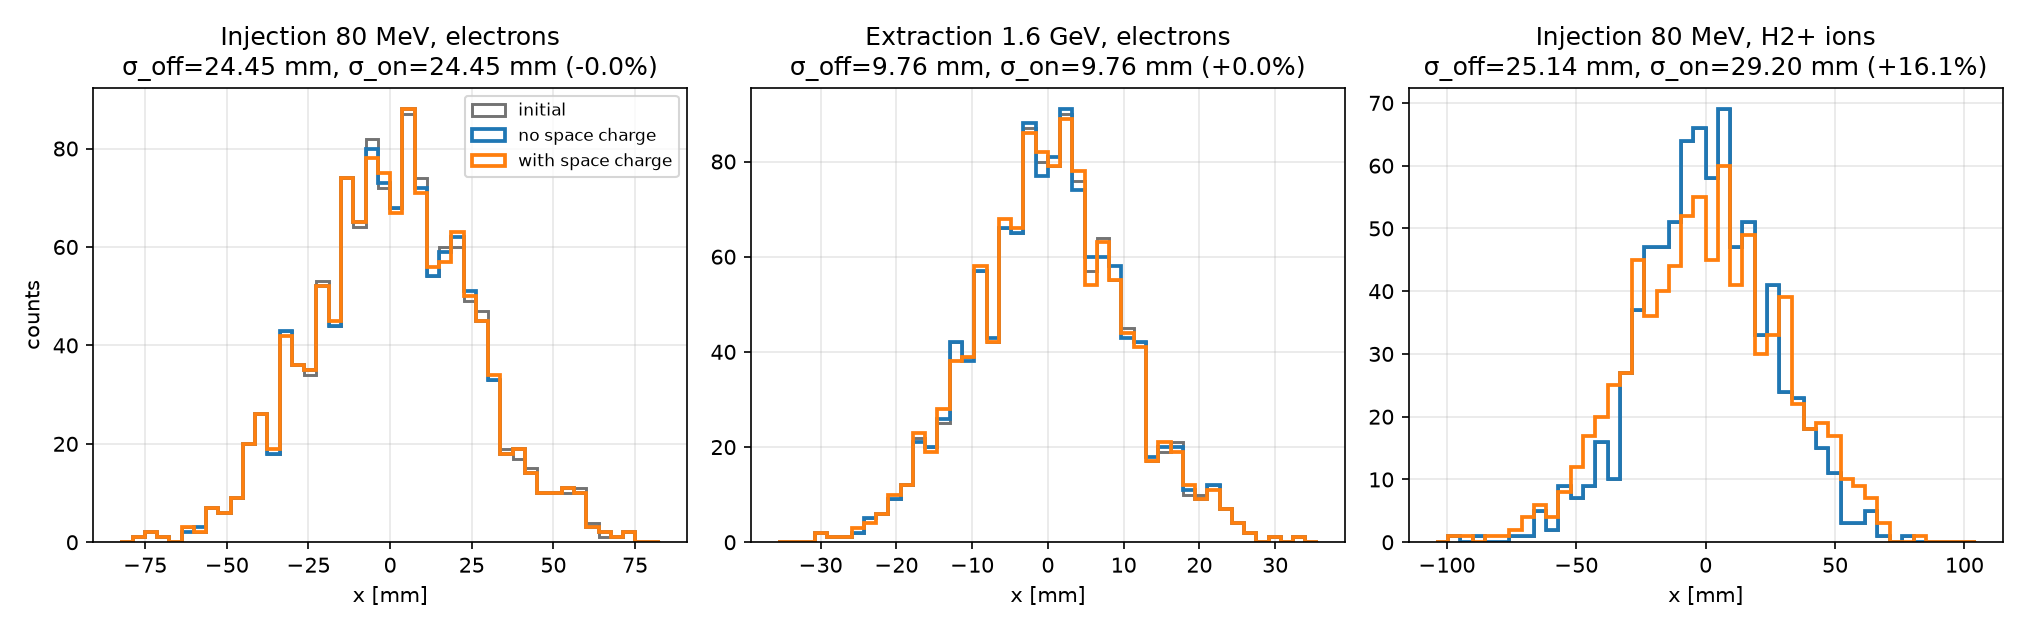
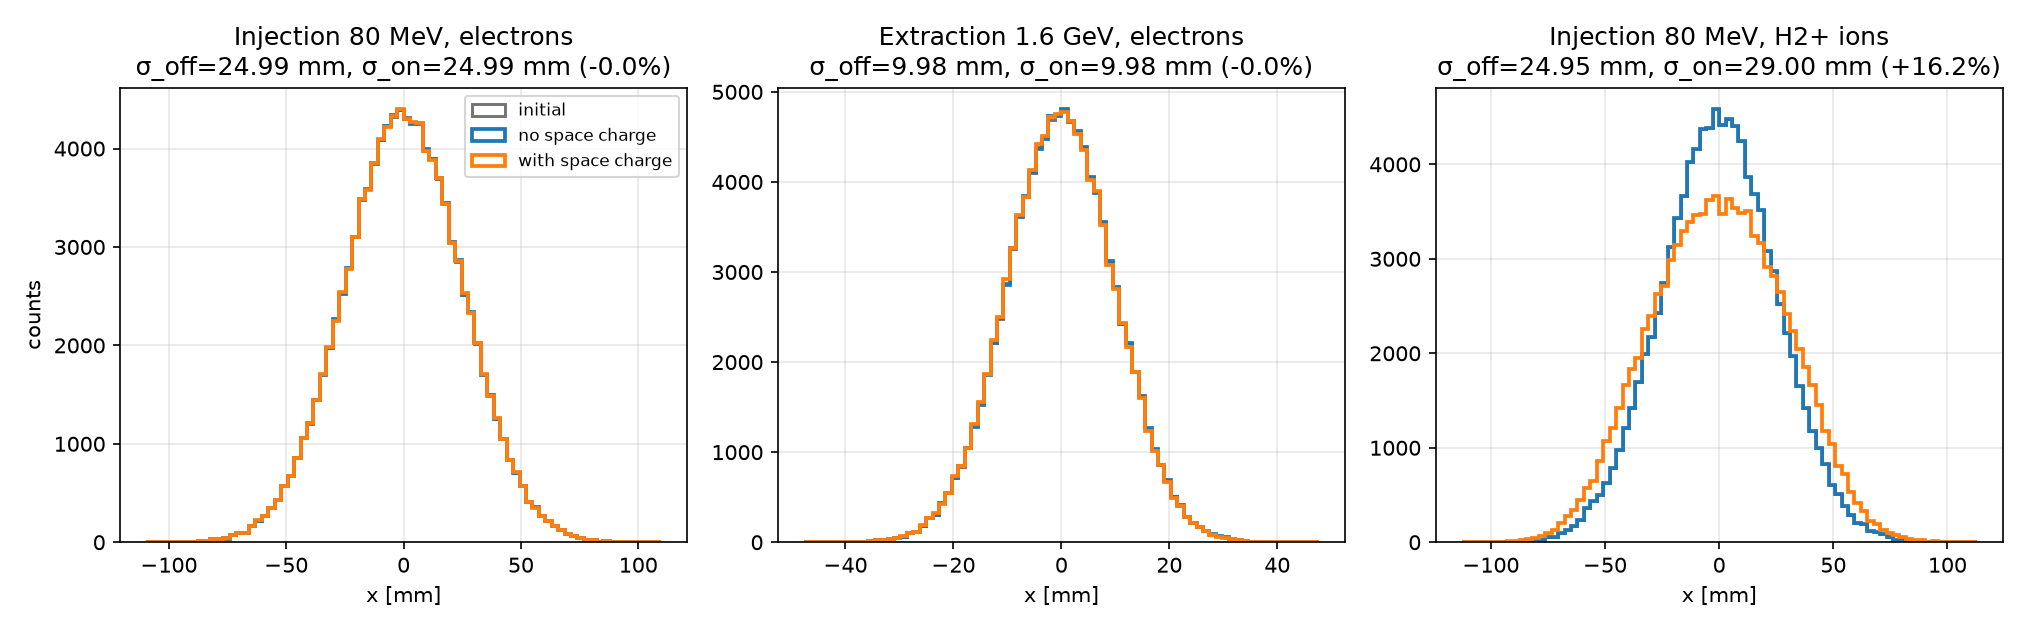
Update CSNS space-charge results for 100000-particle runs
Re-run on/off cases; electron profiles stay undistorted at 0.1 T,
while injection H2+ RMS expands by 16.22%.

diff --git a/IPM/README.md b/IPM/README.md
@@ -34,13 +34,13 @@ python scripts/evaluate_space_charge.py
 
 Each case is run **with** and **without** beam space charge (`ElectricFieldOFF` / `MagneticFieldOFF`). Guiding fields stay uniform.
 
-Results at 100 kW (\(7.8\times10^{12}\) protons/bunch), ideal \(E_y\) and \(B_y=0.1\,\mathrm{T}\):
+Results at 100 kW (\(7.8\times10^{12}\) protons/bunch), **100000** tracked particles, ideal \(E_y\) and \(B_y=0.1\,\mathrm{T}\):
 
-| Case | \(\sigma\) no SC [mm] | \(\sigma\) with SC [mm] | Profile expansion | Particle rms \(\Delta x\) |
-|---|---:|---:|---:|---:|
-| Injection electrons (80 MeV) | 24.45 | 24.45 | ~0% | 0.08 mm |
-| Extraction electrons (1.6 GeV) | 9.76 | 9.76 | ~0% | 0.11 mm |
-| Injection \(\mathrm{H}_2^+\) | 25.14 | 29.20 | **+16.1%** | 4.65 mm |
+| Case | N detected | \(\sigma\) no SC [mm] | \(\sigma\) with SC [mm] | Profile expansion | Particle rms \(\Delta x\) |
+|---|---:|---:|---:|---:|---:|
+| Injection electrons (80 MeV) | 100030 | 24.994 | 24.994 | ~0% | 0.082 mm |
+| Extraction electrons (1.6 GeV) | 100011 | 9.977 | 9.977 | ~0% | 0.109 mm |
+| Injection \(\mathrm{H}_2^+\) | 99988 | 24.955 | 29.003 | **+16.22%** | 4.68 mm |
 
 The 0.1 T guiding field suppresses electron-profile distortion (as in the PAC’09 cage design). Ions remain in the cage for microseconds and see several bunches, so space charge broadens the measured profile.
 
